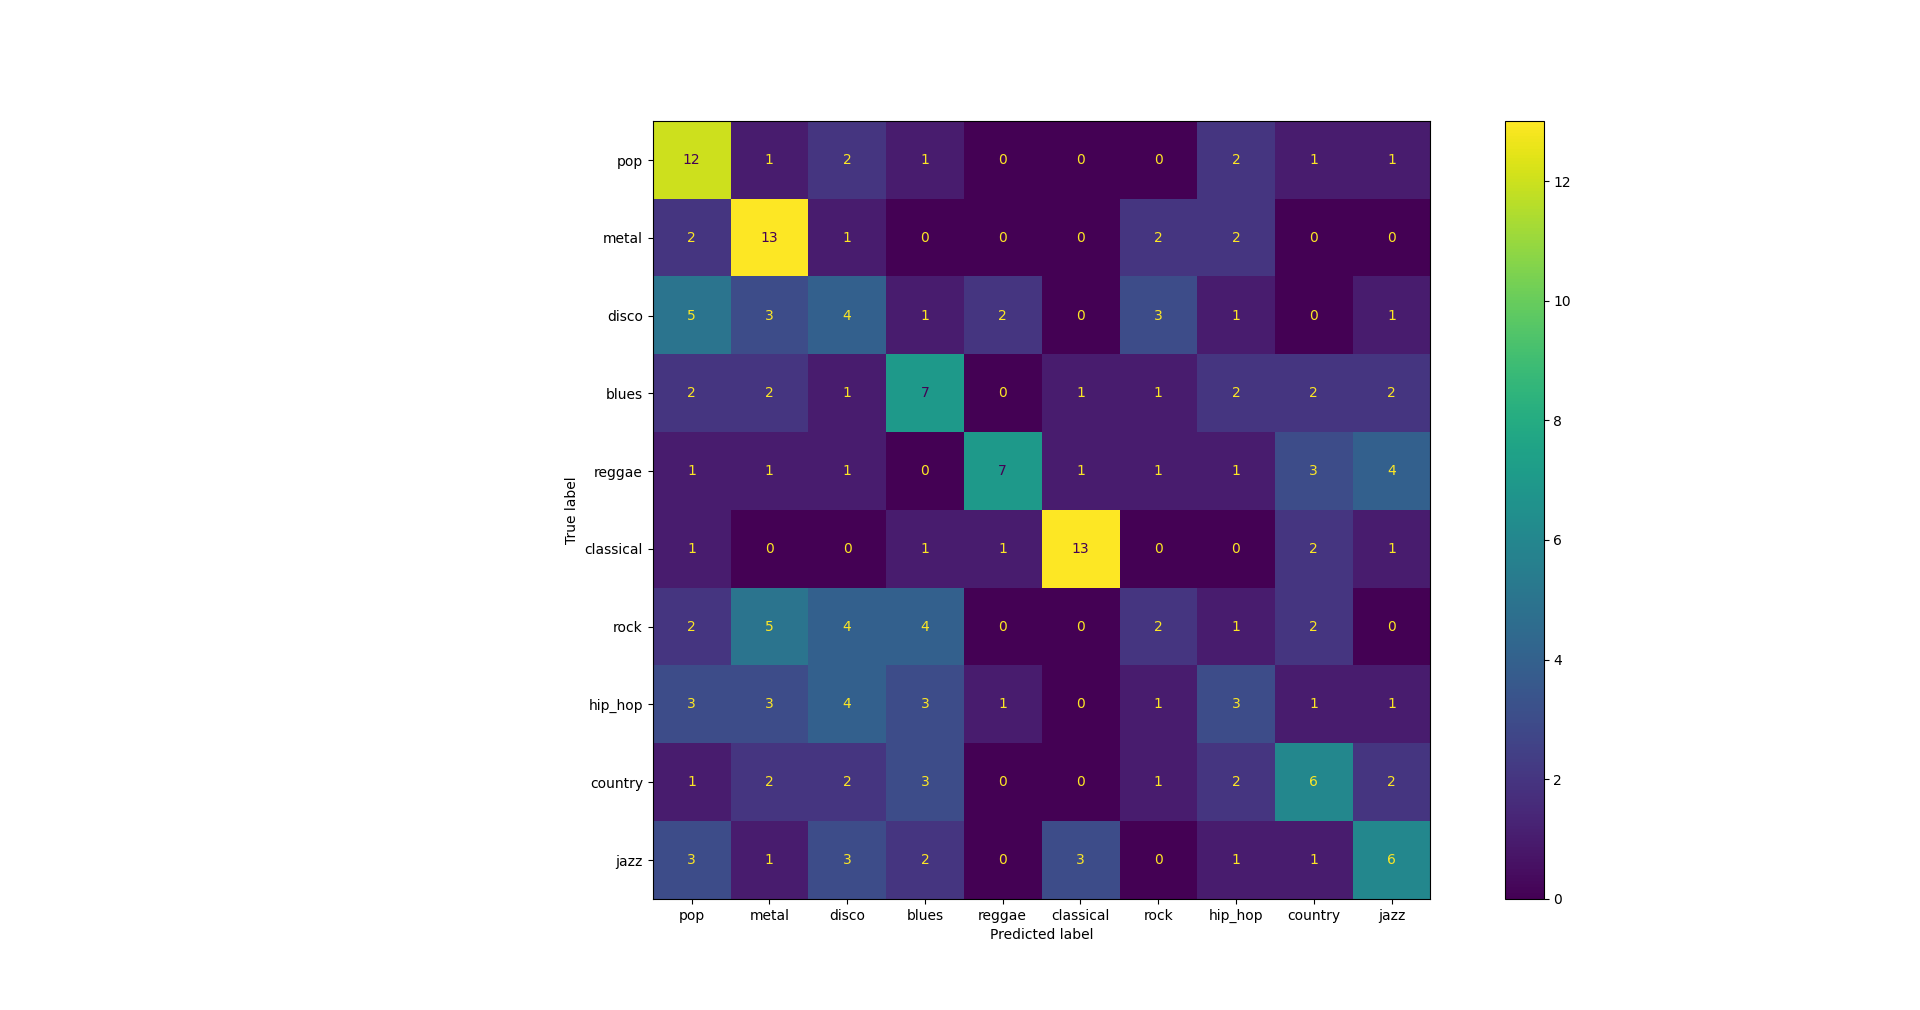
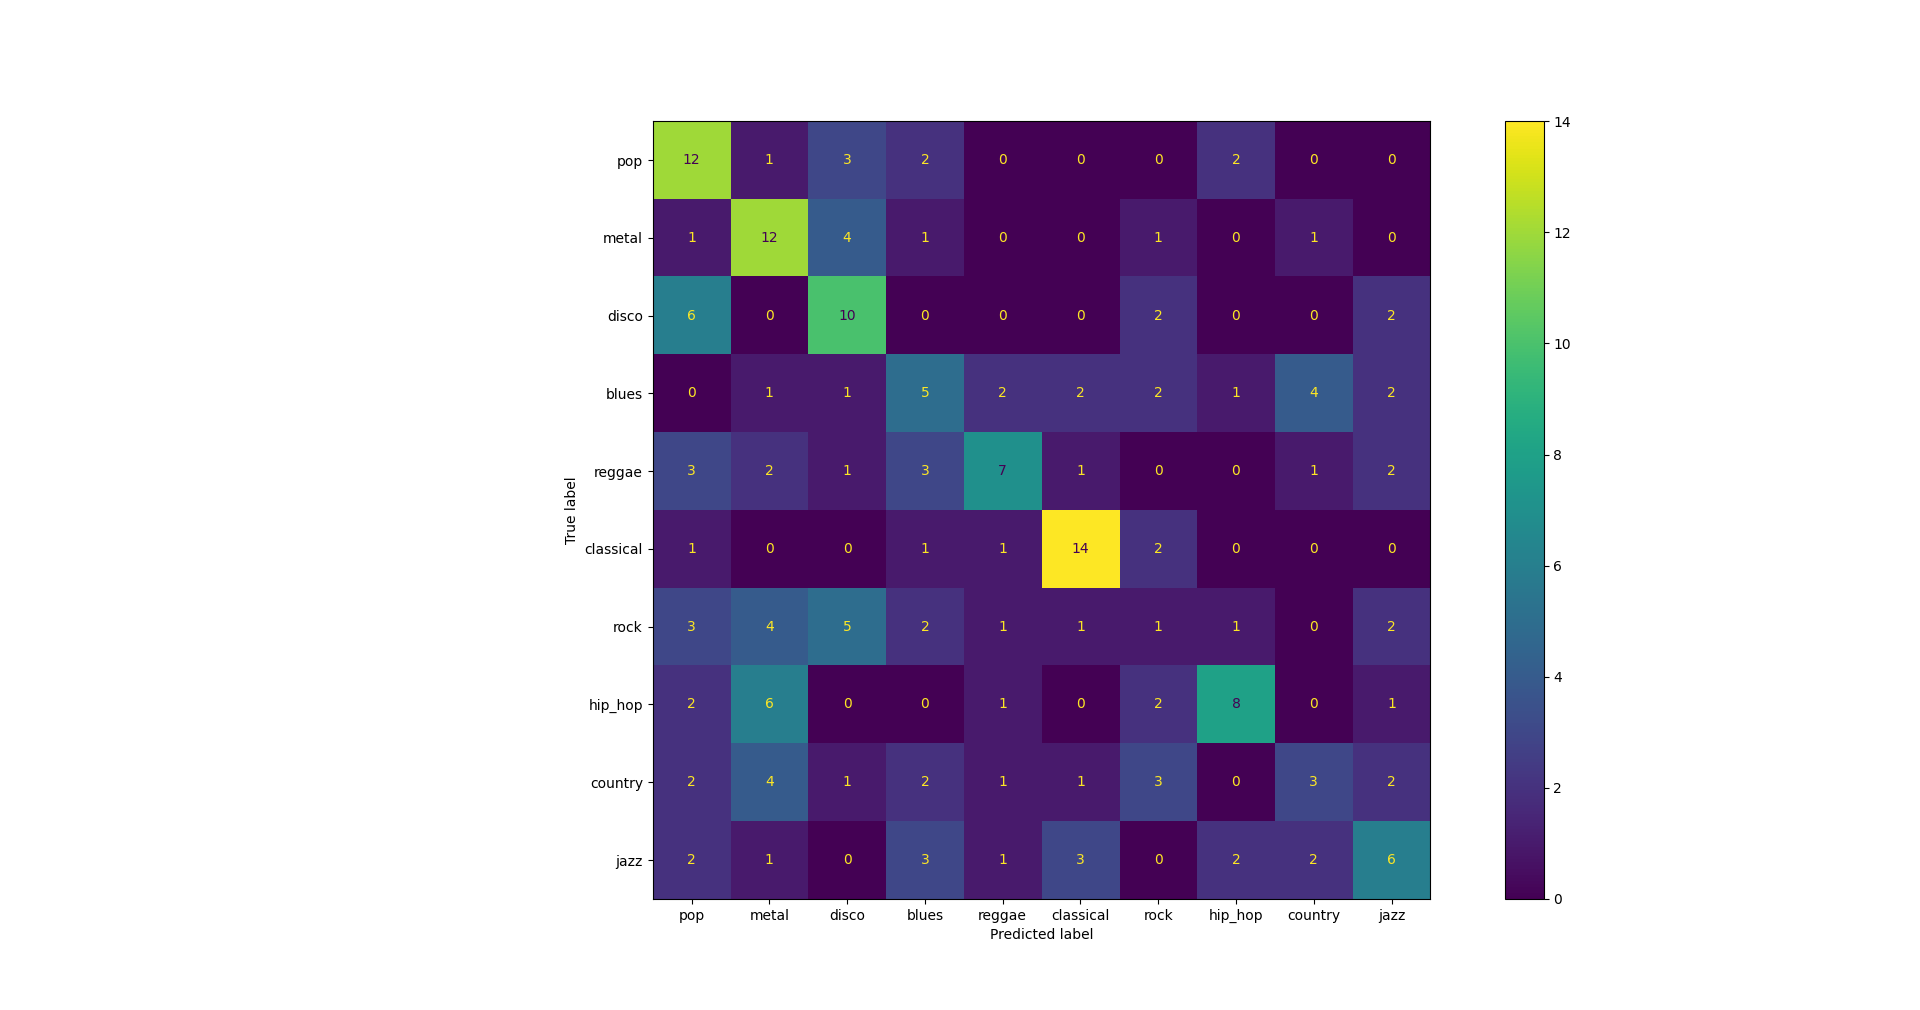
figure from task 1 was from unscaled data - fixed

Changed region(s): [[0.3438, 0.1228, 0.75, 0.8901]]

diff --git a/no_pipeline.py b/no_pipeline.py
@@ -82,11 +82,6 @@ class Dataset:
         print("Initiated dataset ocject. Training data head: \n ",\
             self.train_data.head)
 
-
-
-    def hist(self):
-        self.train_data.hist()
-
     def scale(self, normalization_method = 'min-max'):
         """
         Trains a scaling object to the training set and uses it to
@@ -106,6 +101,25 @@ class Dataset:
         scaled_test_data = scaler.transform(self.test_data)
         self.test_data.loc[:,:] = scaled_test_data
         print("Scaled data: \n", self.train_data.head)
+
+    def hist2x2(self):
+        """
+        Makes a 2x2 subplot where cells are features and the overlapping
+        histograms are genres.
+        """
+        plt.subplots(2,2)
+        for i in range(len(self.genres)):
+            samples = self.train_data[self.train_data.index == self.genres[i]]
+            my_label = self.genres[i]
+            j = 1
+            for feature in self.features:
+                plt.subplot(2,2,j)
+                data = samples.loc[:,feature]
+                plt.hist(data, bins = 20, alpha = 0.25, label = my_label)
+                j += 1
+
+
+
 
     def three_feature_plot(self):
         """

diff --git a/Task2.py b/Task2.py
@@ -5,10 +5,7 @@ import pandas as pd
 
 from no_pipeline import Dataset
 
+gen = ['pop', 'metal', 'disco','classical']
 feat = ['spectral_centroid_mean', 'spectral_rolloff_mean', 'mfcc_1_mean', 'tempo']
-genre_data = Dataset('Classification music/GenreClassData_30s.txt', 5, feat, None)
+genre_data = Dataset('Classification music/GenreClassData_30s.txt', 5, feat, gen)
 
-genre_data.scale()
-error_rate = genre_data.classify(True)
-print(error_rate)
-plt.show()
